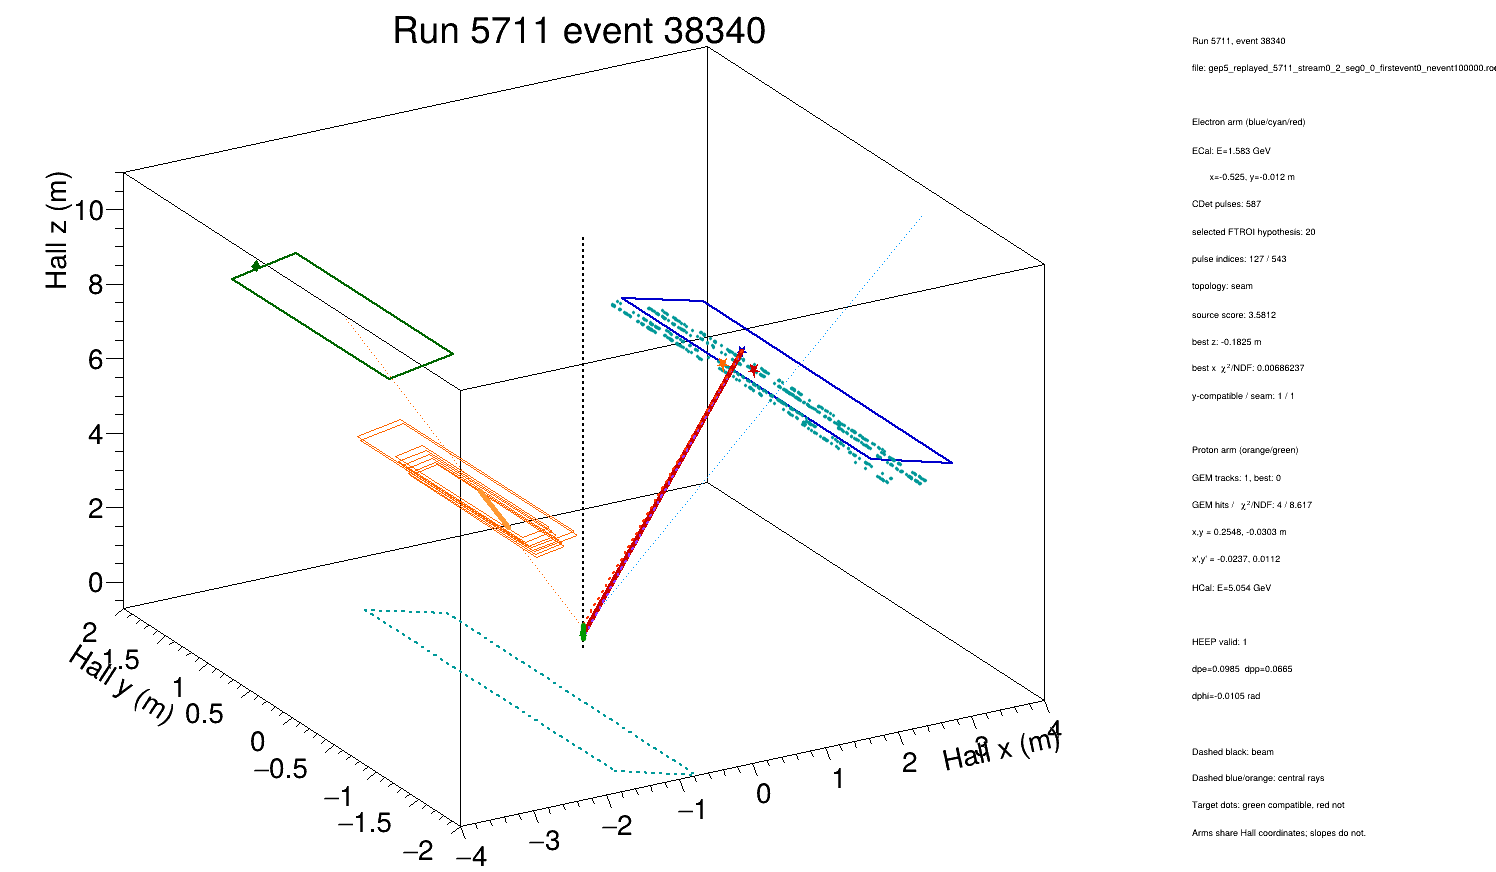
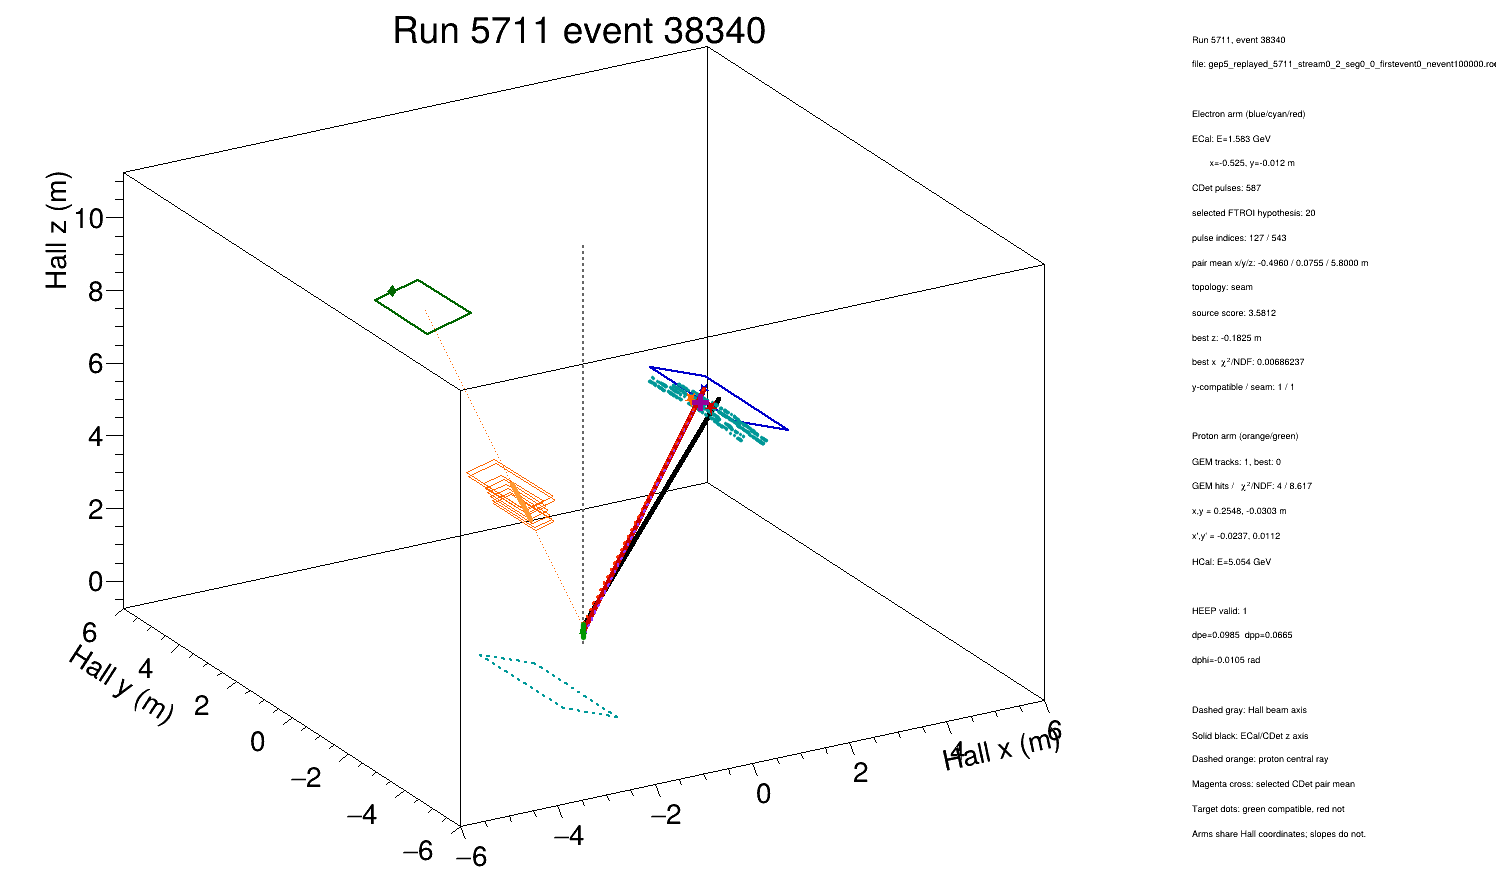
updates

diff --git a/scripts/cdet/Display_CDet_FTROI_GEMEvent.C b/scripts/cdet/Display_CDet_FTROI_GEMEvent.C
@@ -1,6 +1,7 @@
 #include <TCanvas.h>
 #include <TChain.h>
 #include <TColor.h>
+#include <TFile.h>
 #include <TH3D.h>
 #include <TMarker3DBox.h>
 #include <TMath.h>
@@ -16,6 +17,7 @@
 #include <TTreeReaderArray.h>
 #include <TTreeReaderValue.h>
 #include <TVector3.h>
+#include <TView.h>
 
 #include <algorithm>
 #include <cmath>
@@ -287,7 +289,9 @@ void Display_CDet_FTROI_GEMEvent(
         TString::Format("ftroi_frame_%lld", requestedEventNumber),
         TString::Format("Run 5711 event %lld;Hall x (m);Hall y (m);Hall z (m)",
                         requestedEventNumber),
-        10, -4.0, 4.0, 10, -2.0, 2.0, 10, -0.7, 11.0);
+        // Equal 12 m spans preserve physical angles and perpendicularity in
+        // the ROOT 3D projection. The unused Hall-y space is intentional.
+        10, -6.0, 6.0, 10, -6.0, 6.0, 10, -0.75, 11.25);
     frame->SetStats(kFALSE);
     frame->Draw();
 
@@ -339,11 +343,25 @@ void Display_CDet_FTROI_GEMEvent(
     const int selectedPulses[2] = {
         static_cast<int>(std::lround(hypPulseL1[selectedHypothesis])),
         static_cast<int>(std::lround(hypPulseL2[selectedHypothesis]))};
+    bool havePairMean = false;
+    TVector3 pairMeanLocal;
     for (int i = 0; i < 2; ++i) {
       const int ip = selectedPulses[i];
-      if (ip >= 0 && ip < static_cast<int>(pulseZ.GetSize()))
+      if (ip >= 0 && ip < static_cast<int>(pulseZ.GetSize())) {
         DrawMarker(ToHall(TVector3(pulseX[ip], pulseY[ip], pulseZ[ip]), eAxes),
                    i == 0 ? kRed + 1 : kOrange + 7, 29, 2.0);
+      }
+    }
+    if (selectedPulses[0] >= 0 && selectedPulses[1] >= 0 &&
+        selectedPulses[0] < static_cast<int>(pulseZ.GetSize()) &&
+        selectedPulses[1] < static_cast<int>(pulseZ.GetSize())) {
+      pairMeanLocal = 0.5 *
+          (TVector3(pulseX[selectedPulses[0]], pulseY[selectedPulses[0]],
+                    pulseZ[selectedPulses[0]]) +
+           TVector3(pulseX[selectedPulses[1]], pulseY[selectedPulses[1]],
+                    pulseZ[selectedPulses[1]]));
+      havePairMean = true;
+      DrawMarker(ToHall(pairMeanLocal, eAxes), kMagenta + 2, 34, 2.2);
     }
 
     // Target scan points for the selected hypothesis: green is y-compatible,
@@ -423,6 +441,9 @@ void Display_CDet_FTROI_GEMEvent(
                                      selectedHypothesis));
     summary->AddText(TString::Format("pulse indices: %d / %d",
                                      selectedPulses[0], selectedPulses[1]));
+    if (havePairMean)
+      summary->AddText(TString::Format("pair mean x/y/z: %.4f / %.4f / %.4f m",
+          pairMeanLocal.X(), pairMeanLocal.Y(), pairMeanLocal.Z()));
     summary->AddText(TString::Format("topology: %s",
         std::lround(hypTopology[selectedHypothesis]) == 1 ? "seam" :
         (std::lround(hypTopology[selectedHypothesis]) == 0 ? "same-side" :
@@ -458,6 +479,7 @@ void Display_CDet_FTROI_GEMEvent(
     summary->AddText("Dashed gray: Hall beam axis");
     summary->AddText("Solid black: ECal/CDet z axis");
     summary->AddText("Dashed orange: proton central ray");
+    summary->AddText("Magenta cross: selected CDet pair mean");
     summary->AddText("Target dots: green compatible, red not");
     summary->AddText("Arms share Hall coordinates; slopes do not.");
     summary->Draw();

diff --git a/scripts/cdet/CDet_STEP5_ROI_INTEGRATION.md b/scripts/cdet/CDet_STEP5_ROI_INTEGRATION.md
@@ -1081,10 +1081,12 @@ and y compatibility calculation. A new replay and regenerated Panels 3 through
 `Display_CDet_FTROI_GEMEvent.C` provides an interactive, deliberately light
 weight Hall-coordinate display for the 358-event Run 5711 review sample. It
 draws the electron- and proton-arm central axes, ECal and its cluster, the two
-CDet layers and all event pulses, the selected CDet pulses and FTROI ray,
+CDet layers and all event pulses, the selected CDet pulses, their mean
+coordinate, and the FTROI ray,
 target-scan compatibility points, GEM FT planes and the best proton-arm track,
 and HCAL with its cluster. Detector outlines are schematic acceptance planes,
-not a GEANT geometry.
+not a GEANT geometry. The Hall x, y, and z display ranges have equal physical
+scales so that angles and detector-plane perpendicularity are not distorted.
 
 Run it interpreted with the local ROOT/Podd environment:
 
@@ -1108,6 +1110,197 @@ coordinates. It intentionally does not subtract their local track slopes;
 cross-arm interpretation still belongs to the HEEP/elastic closure variables.
 The stored FTROI target-z result retains the known fit-coordinate caveat above,
 but its display point is placed at the correct Hall location `(0,0,z_target)`.
+
+Three interactive views illustrate distinct event structures. The viewpoints
+were chosen manually in the ROOT canvas; the equal physical axis scales are
+preserved in each image.
+
+![Run 5711 event 113106: one same-side FTROI hypothesis and one GEM FT track](event2.jpg)
+
+*Event 113106 has one same-side, y-compatible FTROI hypothesis and one GEM FT
+track. It is a visually simple topology example, although it fails the
+historical elastic selection only on the ECal energy-ratio requirement.*
+
+![Run 5711 event 139083: one same-side FTROI hypothesis and three GEM tracks](event3.jpg)
+
+*Event 139083 retains one same-side FTROI hypothesis while the proton arm has
+three GEM tracks. It isolates proton-arm multiplicity against a simple
+electron-arm candidate.*
+
+![Run 5711 event 38340: selected opposite-side seam hypothesis](seam_event.jpg)
+
+*Event 38340 shows the selected opposite-side seam pair. The Layer-1 and
+Layer-2 nominal half-bar centers lie on opposite sides of the central seam;
+the magenta marker is their mean CDet coordinate. This is an ambiguity and
+topology diagnostic rather than a historical-cut elastic event.*
+
+### Comparison with the historical elastic-event selection
+
+An approximate elastic-event selection supplied by the GEP physics-analysis
+effort was evaluated directly on the same 18 Run 5711 replay files:
+
+```text
+abs(heep.dt_ADC) < 10 &&
+abs(sbs.tr.vz[0] + 0.1) < 0.18 &&
+heep.ecalo/heep.eprime_eth > 0.7 &&
+abs(heep.dxECAL - 0.01 + 0.025*earm.ecal.x) < 0.05 &&
+sbs.gemFPP.track.ntrack > 0 &&
+abs(heep.dyECAL - 0.01) < 0.06 &&
+sbs.gemFPP.track.sclose[0] < 0.01 &&
+(sbs.gemFT.track.nhits[0] > 4 ||
+ sbs.gemFT.track.ngoodhits[0] > 2)
+```
+
+This is a much tighter physics-analysis selection than the current CDet
+candidate definition. The latter is intended to retain auditable electron-ray
+hypotheses and is not, by itself, an elastic-event classifier.
+
+| Sample | Events | Pass historical cut |
+|---|---:|---:|
+| All replayed Run 5711 events | 261,010 | 20 |
+| Events with a GEM FT track | 358 | 20 |
+| GEM FT track plus at least one FTROI/CDet hypothesis | 117 | 12 |
+
+All 20 historical elastic candidates are therefore contained in the 358-event
+GEM catalogue. Twelve of the 20, or 60%, have a CDet hypothesis. Conversely,
+12 of the 117 CDet-overlap events, or 10.3%, pass the complete historical
+selection. This is consistent with deliberately broad CDet candidate
+retention rather than evidence that the CDet selection is impure or incorrect.
+
+The individual historical-cut efficiencies within the 358-event GEM sample
+are:
+
+| Requirement | Passing events | Fraction |
+|---|---:|---:|
+| `abs(heep.dt_ADC) < 10` | 176 | 49.2% |
+| SBS reconstructed-vertex requirement | 271 | 75.7% |
+| `heep.ecalo/heep.eprime_eth > 0.7` | 107 | 29.9% |
+| corrected ECal x-residual requirement | 226 | 63.1% |
+| at least one GEM FPP track | 358 | 100.0% |
+| ECal y-residual requirement | 174 | 48.6% |
+| GEM FPP closest approach below 0.01 m | 135 | 37.7% |
+| GEM FT hit-quality requirement | 164 | 45.8% |
+
+The strongest individual restrictions in this sample are the ECal energy
+ratio and FPP closest-approach requirements. Cut efficiencies in this table
+are individual, not sequential, and therefore must not be multiplied.
+
+The 20 events passing the complete historical selection are:
+
+```text
+44091   69900   134211  136242  140892
+239796  242841  250203  262908  338979
+365694  385134  416652  452370  471063
+496455  556335  572790  600126  653856
+```
+
+The twelve with at least one FTROI/CDet hypothesis are:
+
+```text
+44091   134211  136242  140892  239796  242841
+250203  365694  385134  471063  496455  572790
+```
+
+Ten of their catalogue-selected best hypotheses are same-side pairs and two,
+events 239796 and 250203, are seam pairs. All twelve selected associations are
+topology-aware y-compatible. Events 140892 and 385134 are especially useful
+same-side displays: both pass the complete historical cut, while their best
+FTROI constrained-x chi-square/NDF values are approximately 0.0338 and 0.0115,
+respectively. Event 140892 also has an interior best target bin at
+`z = -0.0025 m`; that value remains subject to the known target-coordinate
+caveat and is not yet a physical vertex result.
+
+Event 38340 remains valuable as an ambiguity and seam-topology diagnostic, but
+it does not pass the historical elastic selection. It passes the ADC-time,
+SBS-vertex, corrected ECal-x, and FPP-track requirements, while failing four
+terms:
+
+| Event 38340 quantity | Value | Decision |
+|---|---:|---|
+| `heep.ecalo/heep.eprime_eth` | 0.323 | fail |
+| `heep.dyECAL - 0.01` | -0.117 m | fail |
+| `sbs.gemFPP.track.sclose[0]` | 0.0163 m | fail |
+| GEM FT hits / good hits | 4 / 2 | fail |
+
+Its excellent FTROI constrained-x fit therefore must not be confused with an
+independent elastic-event identification.
+
+### The eight historical elastic events without a CDet hypothesis
+
+The eight complete-cut events without an FTROI/CDet hypothesis are:
+
+```text
+69900  262908  338979  416652
+452370 556335  600126  653856
+```
+
+Their failure was traced through the CDet candidate-building stages. A fully
+selected pulse in the following table has valid timing calibration and passes
+the broad pulse-quality, event-level ECal-eligibility, and projected spatial
+requirements. A detector-local pair additionally passes the inter-layer
+timing, x-difference, and same-side or seam-topology gates.
+
+| Event | Selected L1/L2 pulses | Detector-local pairs | Best final ellipse score | Main issue |
+|---:|---:|---:|---:|---|
+| 69900 | 2 / 8 | 6 | 5.90 | trajectory residual |
+| 262908 | 1 / 0 | 0 | 28.32 (single layer) | missing Layer 2 and timing |
+| 338979 | 4 / 9 | 20 | 5.19 | borderline trajectory plus timing |
+| 416652 | 3 / 2 | 1 | 53.32 | trajectory and timing |
+| 452370 | 1 / 5 | 2 | 8.33 | timing |
+| 556335 | 14 / 8 | 42 | 12.81 | timing |
+| 600126 | 5 / 2 | 1 | 30.45 | trajectory |
+| 653856 | 4 / 4 | 6 | 7.82 | trajectory |
+
+Seven of the eight are therefore not simple CDet acceptance failures. They
+contain fully selected pulses in both layers and at least one pair passing all
+detector-local gates. They are rejected only by the final ECal-informed
+trajectory-time ellipse. Event 262908 is the sole genuine one-layer case at
+the fully selected-pulse stage; its remaining Layer-1 pulse also fails the
+exclusive single-layer ellipse.
+
+For a two-layer pair, the active radius-two requirement is
+
+```text
+(trajectory_residual / 0.020 m)^2
+  + ((mean_ECal_timing_residual + 26 ns) / 5 ns)^2 <= 4.
+```
+
+The best rejected combination in each event is:
+
+| Event | Trajectory residual (m) | Timing residual (ns) | Ellipse radius |
+|---:|---:|---:|---:|
+| 69900 | +0.0483 | -27.38 | 2.43 |
+| 338979 | -0.0330 | -33.87 | 2.28 |
+| 416652 | -0.0990 | -52.83 | 7.30 |
+| 452370 | +0.0028 | -40.42 | 2.89 |
+| 556335 | -0.0180 | -43.32 | 3.58 |
+| 600126 | +0.1009 | -37.15 | 5.52 |
+| 653856 | +0.0533 | -30.24 | 2.80 |
+
+For event 262908, the best single-layer score is 28.32, with an x residual of
+-0.0534 m and a timing residual of -51.76 ns. Events 69900 and 338979 are the
+closest two-layer near misses. A hypothetical ellipse radius of 2.5 would
+recover both, but no working-point change is justified from eight events
+alone. Event 452370 is an informative timing-only rejection: its best
+trajectory residual is just 2.8 mm. Event 556335 demonstrates why these events
+should not all be described as having "no CDet information": it has 22 fully
+selected pulses and 42 detector-local pairs, none of which passes the final
+ellipse.
+
+The historical `abs(heep.dt_ADC) < 10` requirement and the pulse-level
+ECal/CDet timing residual used by this ellipse are different timing
+constructions. Passing the former does not imply passing the latter. These
+candidate losses also occur before FTROI hypothesis export and before the
+target-z scan, so they are not caused by the known Hall-to-electron-transport
+target-coordinate error.
+
+The most useful next event-level diagnostic is a rejected-candidate display
+mode for events with `FTROI.cdet.hyp.n == 0`. It should show fully selected
+pulses, highlight the closest rejected pair or single-layer pulse, and report
+the trajectory pull, timing pull, and ellipse radius. Priority examples are
+338979 (closest combined near miss), 69900 (trajectory near miss), 452370
+(timing-only rejection), 262908 (one-layer acceptance case), and 556335 (many
+local pairs rejected by timing).
 
 ## Initial invariants
 
